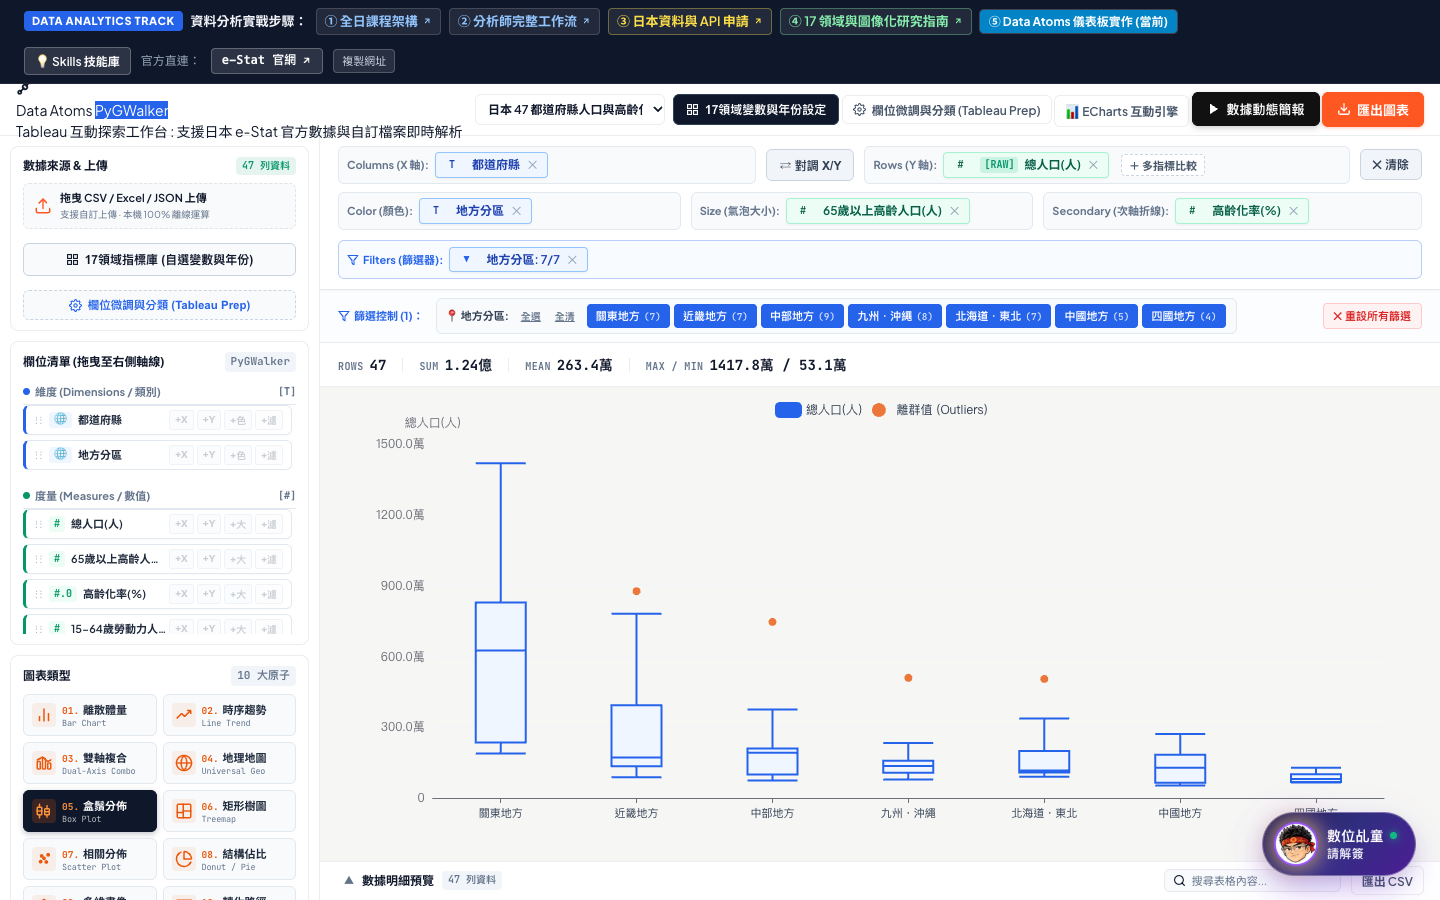
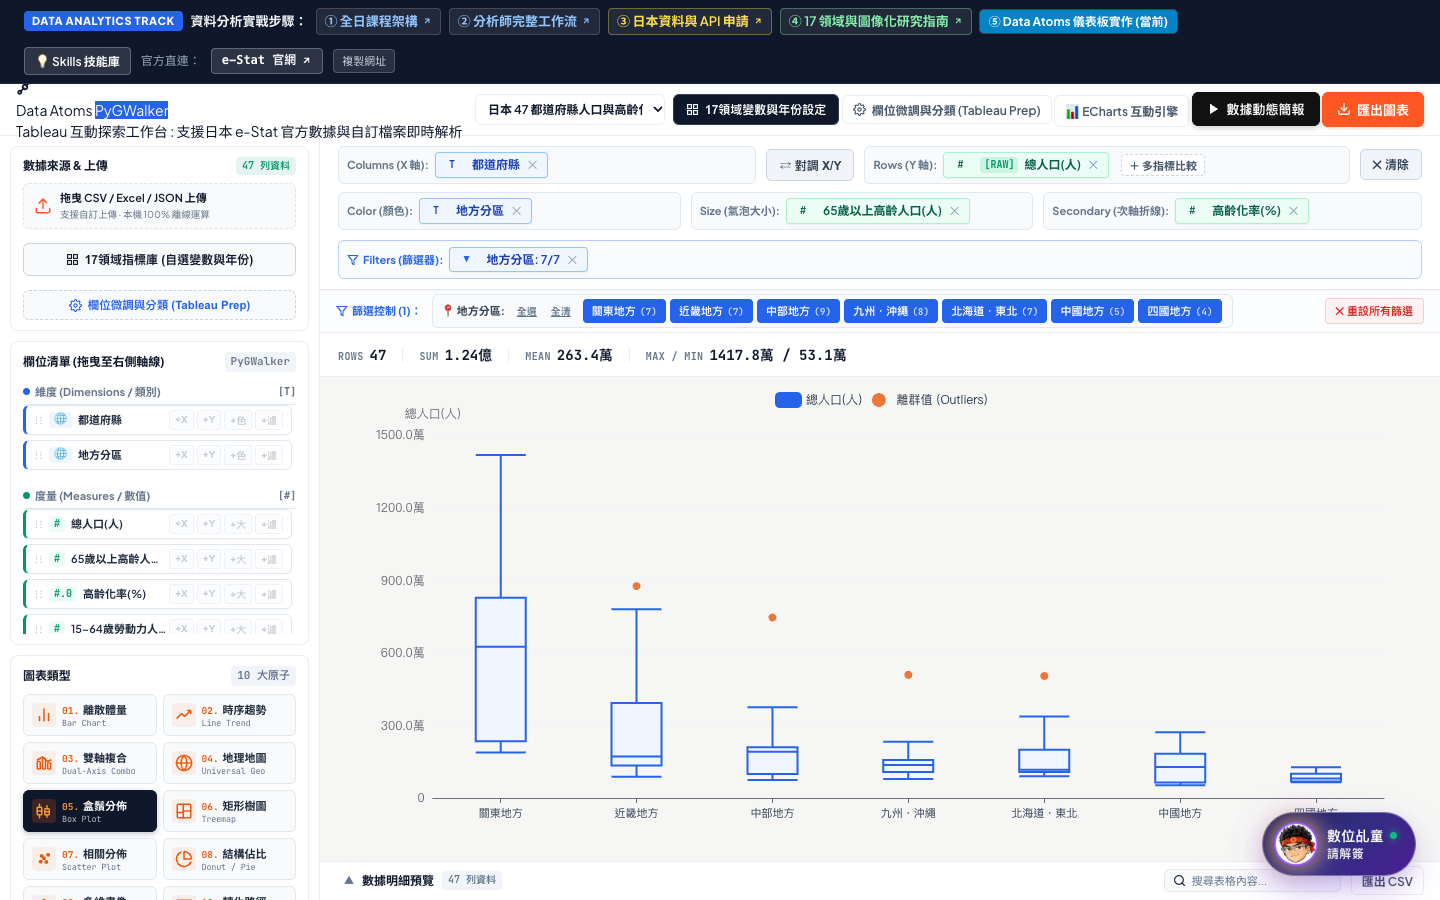
fix(data_atoms): fix X-axis clipping via zero-scroll desktop stage and compact filter strip; feat(skills): add looseleaf expanding catalog to 18 curated skills

diff --git a/data_analysis.html b/data_analysis.html
@@ -392,7 +392,7 @@ a:focus-visible, button:focus-visible {
       <div class="hero-cta-row">
         <a href="data_atoms.html" class="btn btn--primary">開啟 Data Atoms 儀表板 ↗</a>
         <a href="#workflow" class="btn btn--clear">檢視 5 階段完整 SOP ↓</a>
-        <a href="#skills-catalog" class="btn btn--clear" style="white-space: nowrap;">實戰 17 大 Skill 全集 (4 大領域) ↓</a>
+        <a href="#skills-catalog" class="btn btn--clear" style="white-space: nowrap;">實戰 18 大 Skill 全集 (4 大領域) ↓</a>
       </div>
     </section>
 
@@ -641,10 +641,10 @@ a:focus-visible, button:focus-visible {
     <section id="skills-catalog" class="plastic-tray" style="--t: var(--p-sat); margin-top: 40px;">
       <div style="display: flex; justify-content: space-between; align-items: baseline; flex-wrap: wrap; gap: 8px; margin-bottom: 12px;">
         <h2 style="font-size: 22px;">本專案實戰使用的 Antigravity Skill 全集與 GitHub 倉庫</h2>
-        <span class="mono-label">17 skills · 4 domains curated</span>
+        <span class="mono-label">18 skills · 4 domains curated</span>
       </div>
       <p style="font-size: 14px; color: var(--color-muted); line-height: 1.6; max-width: 860px; margin-bottom: 24px;">
-        在 Antigravity 代理人環境中，我們不再是從零手寫樣板程式碼，而是調用專業封裝的 Skill。以下是本專案在<strong>「前端品味工藝、動態短影音、數據視覺化與代理人工程」</strong>4 大核心實戰領域所嚴選整合的 17 款開源 Skill 清單，皆附上 GitHub 原生倉庫連結供學員收藏、進階探索與自訂技能擴充：
+        在 Antigravity 代理人環境中，我們不再是從零手寫樣板程式碼，而是調用專業封裝的 Skill。以下是本專案在<strong>「前端品味工藝、動態短影音、數據視覺化與代理人工程」</strong>4 大核心實戰領域所嚴選整合的 18 款開源 Skill 清單，皆附上 GitHub 原生倉庫連結供學員收藏、進階探索與自訂技能擴充：
       </p>
 
       <!-- Category 1: 前端品味與介面工藝 (Anti-Slop UI & Design Craft) -->
@@ -653,7 +653,7 @@ a:focus-visible, button:focus-visible {
           <span style="font-size: 18px;">🎨</span>
           <h3 style="font-size: 16px; margin: 0; font-weight: 800; color: var(--color-ink);">領域一：前端品味與介面工藝 (Anti-Slop UI & Design Craft)</h3>
         </div>
-        <span class="mono-label" style="font-size: 11px;">3 skills</span>
+        <span class="mono-label" style="font-size: 11px;">4 skills</span>
       </div>
       <div style="display: grid; grid-template-columns: repeat(auto-fit, minmax(280px, 1fr)); gap: 16px; margin-bottom: 28px;">
         <!-- taste-skill -->
@@ -693,6 +693,19 @@ a:focus-visible, button:focus-visible {
             現代極簡高質感網頁設計體系。提供 <code>dose</code>（藥盤磨砂塑膠托盤）、<code>mono</code> 等 6 大主題，內建嚴格 sloplint 語法檢驗。
           </p>
           <div style="font-size: 11px; color: var(--color-muted);">核心產出：本資料分析完整工作流頁面骨架</div>
+        </div>
+
+        <!-- looseleaf -->
+        <div class="pharmacy-label">
+          <div style="display: flex; justify-content: space-between; align-items: center; margin-bottom: 6px;">
+            <div class="mono-label" style="color: var(--color-accent-deep); font-weight: 700;">手繪紙感 / shadcn 手繪組件庫</div>
+            <a href="https://github.com/kevintngo/looseleaf" target="_blank" style="font-size: 12px; color: var(--color-accent); font-weight: 700; text-decoration: underline;">GitHub ↗</a>
+          </div>
+          <div style="font-weight: 700; font-size: 16px; margin-bottom: 6px;">looseleaf</div>
+          <p style="font-size: 13px; color: var(--color-muted); margin-bottom: 12px; line-height: 1.5;">
+            專為打破 AI 網頁塑料感打造的純手繪紙質感組件庫（shadcn/ui, drawn by hand）。涵蓋 123 款組件、61 個版塊、專屬 Kevin Sans 手寫字型與手繪塗鴉標籤，相容 Radix 語意與無障礙。
+          </p>
+          <div style="font-size: 11px; color: var(--color-muted);">核心產出：手繪溫暖紙感介面、手繪儀表板與防 AI 塑料感組件庫</div>
         </div>
       </div>
 

diff --git a/student_data_analyst_workflow.html b/student_data_analyst_workflow.html
@@ -392,7 +392,7 @@ a:focus-visible, button:focus-visible {
       <div class="hero-cta-row">
         <a href="data_atoms.html" class="btn btn--primary">開啟 Data Atoms 儀表板 ↗</a>
         <a href="#workflow" class="btn btn--clear">檢視 5 階段完整 SOP ↓</a>
-        <a href="#skills-catalog" class="btn btn--clear" style="white-space: nowrap;">實戰 17 大 Skill 全集 (4 大領域) ↓</a>
+        <a href="#skills-catalog" class="btn btn--clear" style="white-space: nowrap;">實戰 18 大 Skill 全集 (4 大領域) ↓</a>
       </div>
     </section>
 
@@ -641,10 +641,10 @@ a:focus-visible, button:focus-visible {
     <section id="skills-catalog" class="plastic-tray" style="--t: var(--p-sat); margin-top: 40px;">
       <div style="display: flex; justify-content: space-between; align-items: baseline; flex-wrap: wrap; gap: 8px; margin-bottom: 12px;">
         <h2 style="font-size: 22px;">本專案實戰使用的 Antigravity Skill 全集與 GitHub 倉庫</h2>
-        <span class="mono-label">17 skills · 4 domains curated</span>
+        <span class="mono-label">18 skills · 4 domains curated</span>
       </div>
       <p style="font-size: 14px; color: var(--color-muted); line-height: 1.6; max-width: 860px; margin-bottom: 24px;">
-        在 Antigravity 代理人環境中，我們不再是從零手寫樣板程式碼，而是調用專業封裝的 Skill。以下是本專案在<strong>「前端品味工藝、動態短影音、數據視覺化與代理人工程」</strong>4 大核心實戰領域所嚴選整合的 17 款開源 Skill 清單，皆附上 GitHub 原生倉庫連結供學員收藏、進階探索與自訂技能擴充：
+        在 Antigravity 代理人環境中，我們不再是從零手寫樣板程式碼，而是調用專業封裝的 Skill。以下是本專案在<strong>「前端品味工藝、動態短影音、數據視覺化與代理人工程」</strong>4 大核心實戰領域所嚴選整合的 18 款開源 Skill 清單，皆附上 GitHub 原生倉庫連結供學員收藏、進階探索與自訂技能擴充：
       </p>
 
       <!-- Category 1: 前端品味與介面工藝 (Anti-Slop UI & Design Craft) -->
@@ -653,7 +653,7 @@ a:focus-visible, button:focus-visible {
           <span style="font-size: 18px;">🎨</span>
           <h3 style="font-size: 16px; margin: 0; font-weight: 800; color: var(--color-ink);">領域一：前端品味與介面工藝 (Anti-Slop UI & Design Craft)</h3>
         </div>
-        <span class="mono-label" style="font-size: 11px;">3 skills</span>
+        <span class="mono-label" style="font-size: 11px;">4 skills</span>
       </div>
       <div style="display: grid; grid-template-columns: repeat(auto-fit, minmax(280px, 1fr)); gap: 16px; margin-bottom: 28px;">
         <!-- taste-skill -->
@@ -693,6 +693,19 @@ a:focus-visible, button:focus-visible {
             現代極簡高質感網頁設計體系。提供 <code>dose</code>（藥盤磨砂塑膠托盤）、<code>mono</code> 等 6 大主題，內建嚴格 sloplint 語法檢驗。
           </p>
           <div style="font-size: 11px; color: var(--color-muted);">核心產出：本資料分析完整工作流頁面骨架</div>
+        </div>
+
+        <!-- looseleaf -->
+        <div class="pharmacy-label">
+          <div style="display: flex; justify-content: space-between; align-items: center; margin-bottom: 6px;">
+            <div class="mono-label" style="color: var(--color-accent-deep); font-weight: 700;">手繪紙感 / shadcn 手繪組件庫</div>
+            <a href="https://github.com/kevintngo/looseleaf" target="_blank" style="font-size: 12px; color: var(--color-accent); font-weight: 700; text-decoration: underline;">GitHub ↗</a>
+          </div>
+          <div style="font-weight: 700; font-size: 16px; margin-bottom: 6px;">looseleaf</div>
+          <p style="font-size: 13px; color: var(--color-muted); margin-bottom: 12px; line-height: 1.5;">
+            專為打破 AI 網頁塑料感打造的純手繪紙質感組件庫（shadcn/ui, drawn by hand）。涵蓋 123 款組件、61 個版塊、專屬 Kevin Sans 手寫字型與手繪塗鴉標籤，相容 Radix 語意與無障礙。
+          </p>
+          <div style="font-size: 11px; color: var(--color-muted);">核心產出：手繪溫暖紙感介面、手繪儀表板與防 AI 塑料感組件庫</div>
         </div>
       </div>
 

diff --git a/data_atoms.html b/data_atoms.html
@@ -1257,7 +1257,7 @@
       <div class="modal-head" style="background: #0f172a; color: #ffffff; padding: 16px 24px; display: flex; justify-content: space-between; align-items: center; border-radius: 12px 12px 0 0;">
         <div class="modal-head-title" style="display: flex; align-items: center; gap: 10px;">
           <span style="background: #2563eb; color: #ffffff; font-size: 11px; font-weight: 800; padding: 3px 8px; border-radius: 4px; letter-spacing: 0.05em;">ANTIGRAVITY SKILLS</span>
-          <span style="font-size: 17px; font-weight: 700;">Data Atoms 視覺化所封裝之核心 17 大 Skill 全集與開源架構 (4 大領域)</span>
+          <span style="font-size: 17px; font-weight: 700;">Data Atoms 視覺化所封裝之核心 18 大 Skill 全集與開源架構 (4 大領域)</span>
         </div>
         <button type="button" class="modal-close-btn" id="btnCloseSkillsModal" onclick="document.getElementById('skillsModal').classList.remove('open')" style="background: transparent; border: none; color: #ffffff; font-size: 24px; cursor: pointer; line-height: 1;">×</button>
       </div>
@@ -1266,14 +1266,14 @@
         <div style="background: #f8fafc; border: 1px solid #e2e8f0; border-radius: 8px; padding: 14px 18px; margin-bottom: 20px;">
           <p style="margin: 0; color: #334155; font-size: 13.5px; line-height: 1.6;">
             <strong>🎯 獨立檔案定位說明：</strong>本檔案（<code>data_atoms.html</code>）是數據視覺化與實戰分析的<strong>單一獨立檔案</strong>，與大語言模型學習地圖嚴格分開。<br>
-            在 Antigravity 代理人架構中，本專案整合了以下 <strong>4 大實戰領域、共 17 款開源 Skill</strong>，所有 Skill 皆附上 GitHub 原生倉庫連結供學員參考、收藏與自訂技能擴充：
+            在 Antigravity 代理人架構中，本專案整合了以下 <strong>4 大實戰領域、共 18 款開源 Skill</strong>，所有 Skill 皆附上 GitHub 原生倉庫連結供學員參考、收藏與自訂技能擴充：
           </p>
         </div>
 
         <!-- 領域一：前端品味與介面工藝 -->
         <div style="margin-top: 16px; margin-bottom: 10px; border-bottom: 2px solid #e2e8f0; padding-bottom: 6px; display: flex; justify-content: space-between; align-items: center;">
           <strong style="color: #0f172a; font-size: 15px;">🎨 領域一：前端品味與介面工藝 (Anti-Slop UI & Design Craft)</strong>
-          <span style="font-size: 11px; color: #64748b; font-weight: 700;">3 skills</span>
+          <span style="font-size: 11px; color: #64748b; font-weight: 700;">4 skills</span>
         </div>
         <div style="display: grid; grid-template-columns: repeat(auto-fit, minmax(280px, 1fr)); gap: 12px; margin-bottom: 20px;">
           <!-- taste-skill -->
@@ -1302,6 +1302,15 @@
             </div>
             <div style="font-size: 11px; color: #64748b; font-weight: 700; margin-bottom: 6px;">現代極簡 / 藥盤磨砂風格</div>
             <p style="margin: 0; font-size: 12.5px; color: #475569; line-height: 1.45;">現代極簡網頁設計體系，提供 dose 磨砂托盤主題與嚴格 sloplint 語法檢驗，驅動工作流頁面骨架。</p>
+          </div>
+          <!-- looseleaf -->
+          <div style="background: #ffffff; border: 1px solid #e2e8f0; border-radius: 8px; padding: 14px 16px;">
+            <div style="display: flex; justify-content: space-between; align-items: center; margin-bottom: 4px;">
+              <span style="font-weight: 800; color: #0f172a; font-size: 14px;">looseleaf</span>
+              <a href="https://github.com/kevintngo/looseleaf" target="_blank" style="font-size: 11px; color: #2563eb; font-weight: 700; text-decoration: underline;">GitHub ↗</a>
+            </div>
+            <div style="font-size: 11px; color: #0284c7; font-weight: 700; margin-bottom: 6px;">手繪紙感 / shadcn 手繪組件庫</div>
+            <p style="margin: 0; font-size: 12.5px; color: #475569; line-height: 1.45;">打破 AI 塑料感的純手繪紙質感組件庫（shadcn/ui, drawn by hand）。涵蓋 123 款手繪組件、61 個版塊與 Kevin Sans 手寫字型。</p>
           </div>
         </div>
 

diff --git a/css/pygwalker.css b/css/pygwalker.css
@@ -318,7 +318,7 @@
 .echarts-viewport-container {
   width: 100%;
   height: 100%;
-  min-height: 400px;
+  min-height: 200px;
   flex: 1;
   position: relative;
 }
@@ -1554,16 +1554,18 @@
 .active-filters-strip {
   background: #ffffff;
   border-bottom: 1px solid rgba(15, 23, 42, 0.08);
-  padding: 8px 18px;
+  padding: 4px 16px;
   display: flex;
   align-items: center;
-  gap: 12px;
-  flex-wrap: wrap;
-  min-height: 44px;
-  max-height: 140px;
-  overflow-y: auto;
+  gap: 10px;
+  flex-wrap: nowrap;
+  min-height: 38px;
+  max-height: 48px;
+  overflow-x: auto;
+  overflow-y: hidden;
   background-color: #fcfdfe;
   transition: all 0.2s ease;
+  flex-shrink: 0;
 }
 
 .filter-strip-label {
@@ -1574,6 +1576,7 @@
   align-items: center;
   gap: 4px;
   white-space: nowrap;
+  flex-shrink: 0;
 }
 
 .filter-group-card {
@@ -1583,20 +1586,24 @@
   background: #f8fafc;
   border: 1px solid #e2e8f0;
   border-radius: 6px;
-  padding: 3px 8px;
-  flex-wrap: wrap;
-  max-height: 120px;
-  overflow-y: auto;
+  padding: 2px 8px;
+  flex-wrap: nowrap;
+  max-height: 38px;
+  overflow-x: auto;
+  overflow-y: hidden;
+  flex-shrink: 0;
 }
 
 .filter-chip-container {
   display: inline-flex;
   gap: 4px;
-  flex-wrap: wrap;
-  max-height: 88px;
-  overflow-y: auto;
+  flex-wrap: nowrap;
+  max-height: 34px;
+  overflow-x: auto;
+  overflow-y: hidden;
   padding: 2px 2px;
   align-items: center;
+  flex-shrink: 0;
 }
 
 .filter-group-header {
@@ -1733,6 +1740,8 @@
   display: inline-flex;
   align-items: center;
   gap: 4px;
+  white-space: nowrap;
+  flex-shrink: 0;
   transition: all 0.15s ease;
 }
 .filter-reset-btn:hover {

diff --git a/css/style.css b/css/style.css
@@ -743,8 +743,7 @@ html, body {
   height: 100%;
   display: flex;
   flex-direction: column;
-  overflow-y: auto;
-  overflow-x: hidden;
+  overflow: hidden;
   background: var(--bg-main);
 }
 
@@ -794,11 +793,11 @@ html, body {
 /* Stage Body Layout */
 .stage-body {
   flex: 1;
-  min-height: 420px;
+  min-height: 200px;
   display: flex;
   flex-direction: column;
   position: relative;
-  overflow: visible;
+  overflow: hidden;
 }
 
 /* 1. Canvas Viewport (Dynamic Aspect Ratio Scaled, ZERO SCROLL) */
